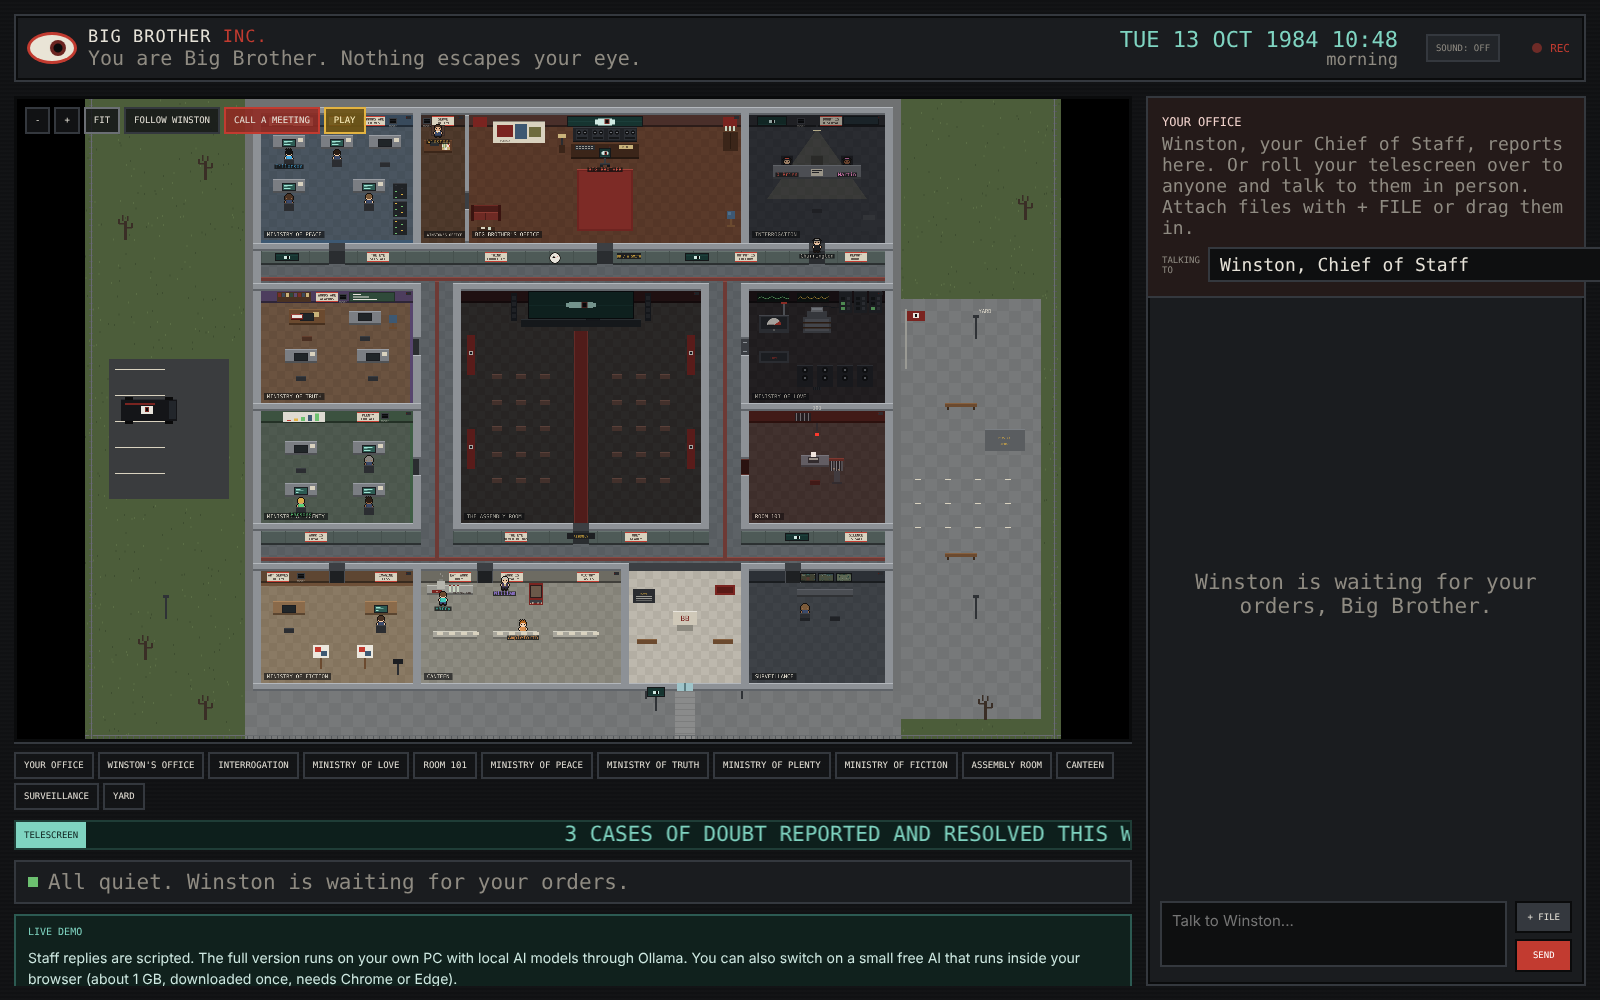
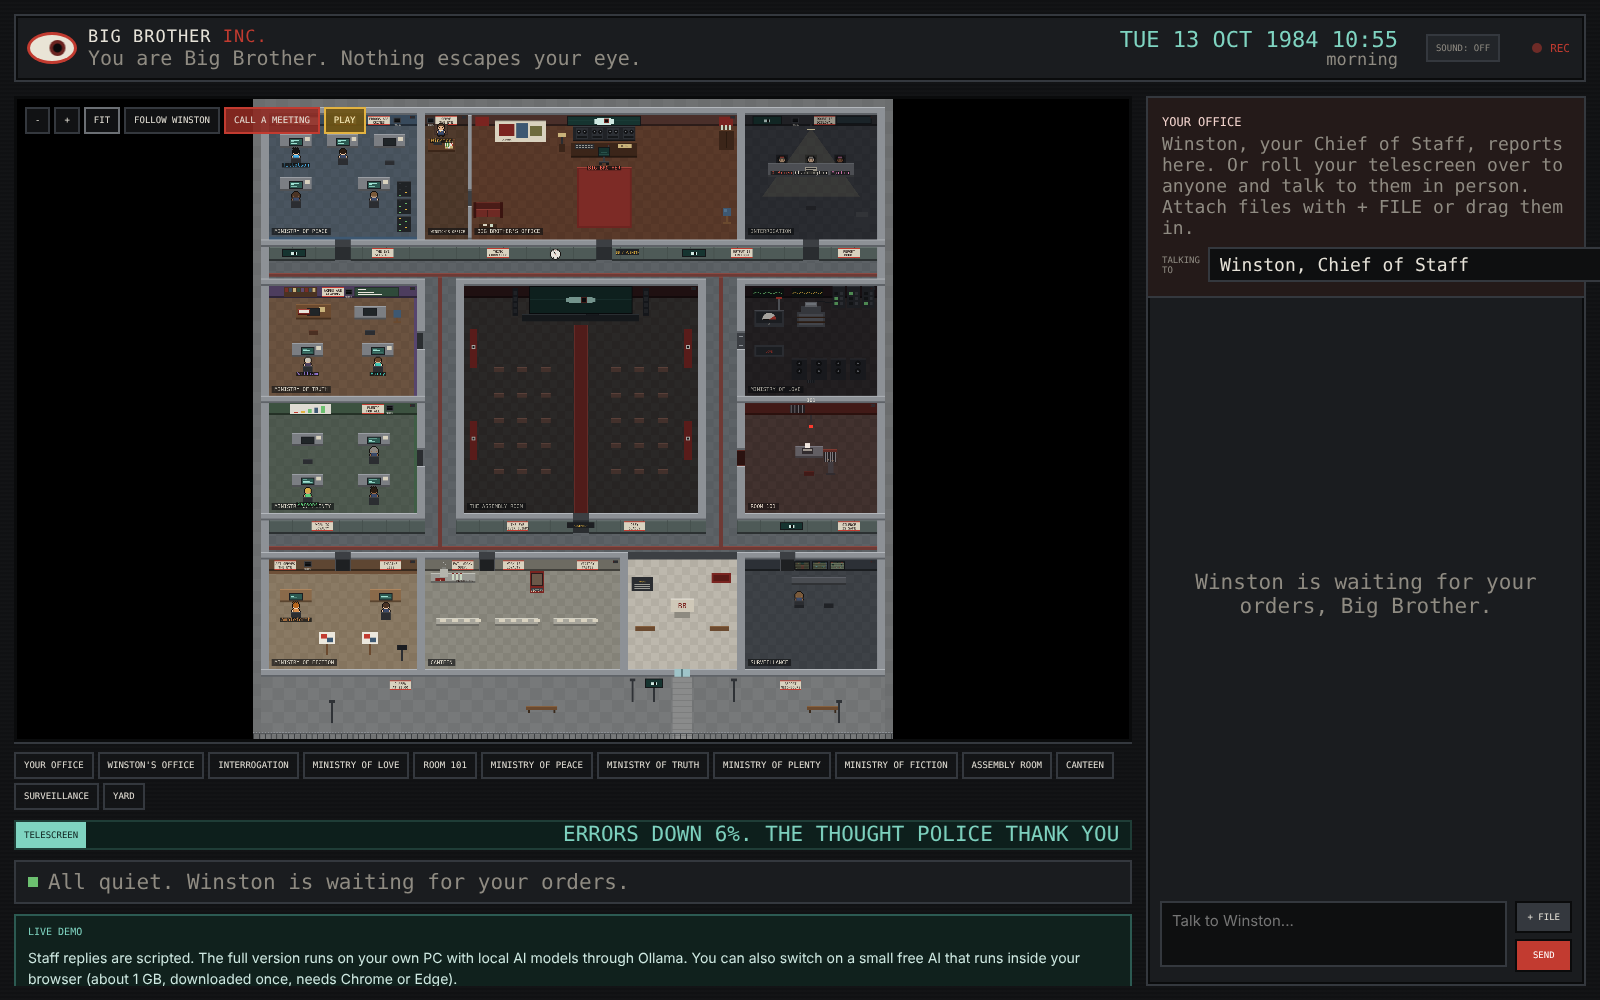
Crop the map to the building and a concrete forecourt
- Removed the grass, car park and side yard
- The yard is now the front forecourt with benches, lamps, notices and a fence

Claude-Session: https://claude.ai/code/session_01DL5cBp9f7f5LEB6skKxDKn

Changed region(s): [[0.0312, 0.093, 0.6875, 0.744], [0.3438, 0.806, 0.7188, 0.837], [0.8438, 0.031, 0.875, 0.062]]

diff --git a/static/index.html b/static/index.html
@@ -261,12 +261,12 @@ async function loadBrowserAI() {
   }
 }
 // =================================================================== world setup
-const W = 976, H = 640, S = 4;
+const LEFT = 160, W = 656, H = 656, S = 4;     // the map shows x from LEFT to LEFT + W: the building and its front yard
 const OFFY = 0;                                // (no extra strip any more: everything fits inside the building)
 const TOP = -OFFY, HT = H + OFFY;                 // world size in tiles-pixels, world -> image scale
 const view = document.getElementById('view');
 const vctx = view.getContext('2d');
-function layer(w = W * S, h = HT * S, shift = true) { const c = document.createElement('canvas'); c.width = w; c.height = h; const g = c.getContext('2d'); g.imageSmoothingEnabled = false; if (shift) g.setTransform(1, 0, 0, 1, 0, OFFY * S); return [c, g]; }
+function layer(w = W * S, h = HT * S, shift = true) { const c = document.createElement('canvas'); c.width = w; c.height = h; const g = c.getContext('2d'); g.imageSmoothingEnabled = false; if (shift) g.setTransform(1, 0, 0, 1, -LEFT * S, OFFY * S); return [c, g]; }
 function blit(g, img) { g.save(); g.setTransform(1, 0, 0, 1, 0, 0); g.drawImage(img, 0, 0); g.restore(); }
 const [world, wctx] = layer();
 let G = wctx;
@@ -301,7 +301,7 @@ const ROOMS = {
   canteen: { x: 336, y: 472, w: 200, h: 112, door: 400, side: 'B', name: 'CANTEEN',                                    wall: '#6d6b62', floor: ['#8c8a80', '#848278'] },
   lobby:   { x: 544, y: 472, w: 112, h: 112, door: 600, side: 'B', name: 'LOBBY',                                      wall: '#d6d0c2', floor: ['#bdb8ad', '#b3aea3'] },
   surv:    { x: 664, y: 472, w: 136, h: 112, door: 708, side: 'B', name: 'SURVEILLANCE',                               wall: '#2c3036', floor: ['#3e4247', '#3a3e43'] },
-  yard:    { x: 808, y: 200, w: 168, h: 440, door: 600, side: 'y', name: 'YARD' },
+  yard:    { x: 168, y: 592, w: 640, h: 64,  door: 600, side: 'y', name: 'YARD' },
   corridor:{ x: 176, y: 152, w: 624, h: 32,  door: 520, side: 'c', name: 'CORRIDOR' },
 };
 // the corridor ring: walkers follow these lanes
@@ -353,8 +353,8 @@ for (const x of [376, 436, 496]) spot('canteen', 'can-b' + x, x, 276, 'sitback',
 spot('canteen', 'urn', 366, 226, 'back', 'idle'); spot('canteen', 'vend', 459, 232, 'back', 'idle');
 spot('surv', 'watch0', 508, 238, 'sitback', 'watch'); spot('surv', 'watch1', 538, 238, 'sitback', 'watch');
 spot('surv', 'surv-i', 520, 292, 'stand', 'idle');
-// the yard: benches and standing room on the grounds east of the building
-for (const [x, y, p] of [[868, 302, 'sit'], [884, 302, 'sit'], [868, 452, 'sit'], [884, 452, 'sit'], [930, 380, 'stand'], [840, 540, 'stand'], [700, 618, 'stand'], [940, 600, 'stand']])
+// the yard: benches and standing room on the forecourt
+for (const [x, y, p] of [[448, 620, 'sit'], [464, 620, 'sit'], [736, 620, 'sit'], [752, 620, 'sit'], [380, 632, 'stand'], [520, 636, 'stand'], [672, 634, 'stand'], [800, 630, 'stand']])
   spot('yard', 'yard' + x + '-' + y, x, y, p, 'idle', true);
 // Room 101
 spot('r101', 'r101', 594, 262, 'type', 'r101');
@@ -452,40 +452,22 @@ const WB = (x, y, w, h) => { px(x, y, w, h, '#8d9196'); px(x, y, w, 1, '#b3b7bc'
 // a horizontal wall from x0 to x1 with gaps [[a, b], ...]
 function wallH(x0, x1, y, gaps = []) { let x = x0; for (const [a, b] of gaps) { if (a > x) WB(x, y, a - x, 8); x = b; } if (x1 > x) WB(x, y, x1 - x, 8); }
 function wallV(x, y0, y1, gaps = []) { let y = y0; for (const [a, b] of gaps) { if (a > y) WB(x, y, 8, a - y); y = b; } if (y1 > y) WB(x, y, 8, y1 - y); }
-function deadTree(tx, ty) {
-  px(tx - 1, ty - 18, 3, 19, '#3a2e26');
-  px(tx - 6, ty - 16, 6, 1.5, '#3a2e26'); px(tx - 7, ty - 20, 2, 5, '#3a2e26'); px(tx + 1, ty - 12, 6, 1.5, '#3a2e26'); px(tx + 6, ty - 16, 2, 5, '#3a2e26');
-  px(tx - 3, ty - 24, 1.5, 6, '#3a2e26'); px(tx + 2, ty - 23, 1.5, 5, '#3a2e26');
-}
 function bench(bx, by) { px(bx, by, 32, 4, '#6b4a2f'); px(bx, by, 32, 1, '#86603e'); px(bx + 2, by + 4, 2, 3, '#3a2a1c'); px(bx + 28, by + 4, 2, 3, '#3a2a1c'); }
-const LAMPS = [[560, 600], [656, 600], [890, 240], [890, 520], [80, 520]];
+const LAMPS = [[548, 618], [652, 618], [240, 640], [760, 640]];
+const BENCHES = [[440, 622], [728, 622]];
 
 function drawStatic() {
   G = bgG;
-  // ---------------- the grounds round the building
-  px(0, 0, W, H, '#4c5d3a');
-  const rnd = seeded(11);
-  for (let i = 0; i < 2600; i++) px(rnd() * W, rnd() * H, 1, 2, rnd() > .5 ? '#5b6e45' : '#3e4d30');
-  px(160, 0, 656, 600, '#6f7172');                                         // paving round the walls
-  tiles(160, 592, 656, 48, '#77797a', '#717374', 12);                       // the front yard
-  tiles(816, 200, 140, 420, '#77797a', '#717374', 12);                      // exercise yard to the east
-  px(590, 592, 20, 48, '#8a8b8b'); for (let y = 592; y < 640; y += 6) px(590, y, 20, 1, '#7c7d7d');   // the path from the front door
-  for (let x = 0; x < W; x += 6) px(x, 636, 1, 4, '#54575a'); px(0, 636, W, 1, '#6a6d70');            // perimeter fence
-  for (let y = 0; y < H; y += 6) { px(4, y, 4, 1, '#54575a'); px(W - 8, y, 4, 1, '#54575a'); } px(6, 0, 1, H, '#6a6d70'); px(W - 7, 0, 1, H, '#6a6d70');
-  // car park with the Thought Police van
-  px(24, 260, 120, 140, '#3a3c3e'); for (let y = 270; y < 400; y += 26) px(30, y, 50, 1, '#d9d2bf');
-  px(36, 300, 56, 22, '#141518'); px(36, 300, 56, 1, '#2a2c30'); px(84, 302, 7, 18, '#22262b'); px(40, 304, 30, 2, '#7a2420');
-  px(56, 307, 12, 8, '#e8e4dc'); px(60, 308, 4, 5, '#7a2a24'); px(61, 309, 2, 3, '#0b0b0b');               // the eye on the van
-  for (const [x, y] of [[40, 322], [80, 322], [40, 298], [80, 298]]) px(x, y, 8, 3, '#0b0b0b');
-  for (const [tx, ty] of [[40, 140], [120, 80], [60, 560], [940, 120], [900, 620], [120, 620]]) deadTree(tx, ty);
-  bench(860, 304); bench(860, 454);
+  // ---------------- outside: just the concrete forecourt at the front
+  tiles(LEFT, 0, W, H, '#6f7172', '#6b6d6e', 12);
+  tiles(168, 592, 640, 64, '#77797a', '#717374', 12);
+  px(590, 592, 20, 64, '#8a8b8b'); for (let y = 592; y < 656; y += 6) px(590, y, 20, 1, '#7c7d7d');   // the path from the front doors
+  for (let x = LEFT; x < LEFT + W; x += 6) px(x, 650, 1, 6, '#3a3d40'); px(LEFT, 650, W, 1, '#54575a');   // the perimeter fence
+  for (let x = LEFT; x < LEFT + W; x += 3) px(x, 648.5, 1.5, 1, '#8d9196');                           // and its barbed wire
+  for (const [bx, by] of BENCHES) bench(bx, by);
   for (const [lx, ly] of LAMPS) { px(lx, ly - 22, 2, 22, '#2f3236'); px(lx - 2, ly - 24, 6, 3, '#2f3236'); }
-  px(820, 210, 2, 60, '#9a9a94'); px(822, 212, 18, 10, '#7a2420'); px(828, 214, 6, 5, '#e8e4dc'); px(830, 215, 2, 3, '#0b0b0b');   // the flag
-  px(570, 594, 2, 18, '#2f3236');                                           // pole for the yard telescreen
-  // the exercise yard: a platform for the morning Physical Jerks, and lines on the ground
-  px(900, 330, 40, 22, '#5a5d60'); px(900, 330, 40, 1, '#7b7f84'); text('PHYSICAL', 920, 340, 9, '#e3b341', 'center'); text('JERKS', 920, 346, 9, '#e3b341', 'center');
-  for (let i = 0; i < 4; i++) for (let j = 0; j < 3; j++) px(830 + i * 30, 380 + j * 24, 6, 1, '#d9d2bf');
-
+  px(570, 600, 2, 18, '#2f3236');                                           // pole for the yard telescreen
+  poster(300, 596, 'CURFEW', 'AT 23:00'); poster(700, 596, 'REPORT', 'NEIGHBOURS');
   // ---------------- floors
   px(168, 8, 640, 584, '#3c3f43');
   for (const r of Object.values(ROOMS)) if (r.floor) tiles(r.x, r.y, r.w, r.h, r.floor[0], r.floor[1], 8);
@@ -668,7 +650,6 @@ function drawStatic() {
     px(r.x + 3, ly, w, 7, 'rgba(16,17,19,.65)');
     text(r.name, r.x + 6, ly + 5.3, size, '#d9d4c7');
   }
-  text('YARD', 900, 214, 16, '#d9d4c7', 'center');
   // corridor decoration (kept clear of all doors)
   poster(282, 153, 'THE EYE', 'SEES ALL'); poster(400, 153, 'THINK', 'CORRECTLY'); poster(650, 153, 'OUTPUT IS', 'FREEDOM'); poster(760, 153, 'REPORT', 'DOUBT');
   px(532, 154, 24, 6, '#1d1f22'); text('BB / W.SMITH', 544, 158.4, 10, '#e3b341', 'center');   // door plate
@@ -712,12 +693,12 @@ function makeChar(info, npc = false) {
 }
 
 // how to walk from the corridor ring into a room (the first point is just inside the corridor, by the door)
-const HOME = [600, 664];                                    // off the bottom of the map, beyond the front gate
+const HOME = [600, 680];                                    // off the bottom of the map, beyond the front gate
 function routeIn(room, s) {
   const r = ROOMS[room];
   const out = [[600, 468], [600, 530], [600, 598]];        // through the lobby and out of the front doors
   if (room === 'home') return [...out, HOME];
-  if (room === 'yard') return [...out, [600, 616], [s.x, 616], [s.x, s.y]];
+  if (room === 'yard') return [...out, [600, 640], [s.x, 640], [s.x, s.y]];
   if (r.side === 'c') return [[s.x, s.y]];
   if (r.side === 'w') return [[r.door, 156], [r.door, 140], ...WOFF_VIA, ...woffInner(s), [s.x, s.y]];
   if (r.side === 'n') return [[r.door, 156], [r.door, 140], [s.x, s.y]];
@@ -899,7 +880,7 @@ function captureCctv(now) {
   for (let i = 0; i < 3; i++) {
     const r = ROOMS[FEED_ROOMS[(feedShift + i * 3) % FEED_ROOMS.length]];
     cctvG.imageSmoothingEnabled = true;
-    cctvG.drawImage(world, r.x * S, (r.y + OFFY) * S, r.w * S, r.h * S, i * 60, 0, 60, 34);
+    cctvG.drawImage(world, (r.x - LEFT) * S, (r.y + OFFY) * S, r.w * S, r.h * S, i * 60, 0, 60, 34);
   }
   cctvG.fillStyle = 'rgba(40,120,100,.3)'; cctvG.fillRect(0, 0, cctv.width, cctv.height);
   cctvG.fillStyle = 'rgba(0,0,0,.25)'; for (let y = 0; y < 34; y += 2) cctvG.fillRect(0, y, cctv.width, 1);
@@ -940,7 +921,7 @@ function drawDynamic(now) {
     text(lastVerdict.avg.toFixed(1), 687, 23.2, 15, lastVerdict.ok ? '#6cc070' : '#ff6a5a', 'center');
     text(lastVerdict.ok ? 'CLEARED' : 'GUILTY', 687, 25.6, 7, '#e6e2d8', 'center');
   } else telescreen(672, 17, 30, 10, now, false);
-  telescreen(562, 588, 18, 10, now, false);                 // the yard telescreen
+  telescreen(562, 594, 18, 10, now, false);                 // the yard telescreen
   // desk monitors light up when someone works there
   for (const [k, d] of Object.entries(DESKS)) {
     const who = taken[k] && chars[taken[k]]; const on = who && who.pose === 'type' && !who.path.length;
@@ -1085,11 +1066,11 @@ function drawLight() {
   G.fillStyle = 'rgba(5,6,10,.3)'; rect(ROOMS.board); rect(ROOMS.mlove);              // the Ministry of Love wing is always dim
   G.fillStyle = meeting && meeting.phase === 'rally' ? `rgba(120,10,10,${.18 + Math.sin(performance.now() / 200) * .1})` : 'rgba(5,6,10,.28)';
   rect(ROOMS.hall);
-  if (gold) { G.fillStyle = `rgba(255,140,60,${gold * .14})`; G.fillRect(0, 0, W * S, H * S); }
+  if (gold) { G.fillStyle = `rgba(255,140,60,${gold * .14})`; G.fillRect(LEFT * S, 0, W * S, H * S); }
   if (!n) return;
   G.fillStyle = `rgba(12,16,40,${n * .32})`; G.fillRect(168 * S, 8 * S, 640 * S, 584 * S);
   G.fillStyle = `rgba(8,10,30,${n * .62})`;
-  G.fillRect(0, 0, 168 * S, H * S); G.fillRect(808 * S, 0, (W - 808) * S, H * S); G.fillRect(168 * S, 592 * S, 640 * S, (H - 592) * S); G.fillRect(168 * S, 0, 640 * S, 8 * S);
+  G.fillRect(LEFT * S, 0, 8 * S, H * S); G.fillRect(808 * S, 0, 8 * S, H * S); G.fillRect(168 * S, 592 * S, 640 * S, (H - 592) * S); G.fillRect(168 * S, 0, 640 * S, 8 * S);
   G.globalCompositeOperation = 'lighter';
   for (const [lx, ly] of LAMPS) glow(lx + 1, ly - 22, 34, 'rgba(255,200,120,A)', .35 * n);
   glow(520, 22, 40, 'rgba(127,212,193,A)', .2 * n);
@@ -1105,7 +1086,7 @@ function updateClock() {
 }
 
 // =================================================================== camera: zoom and pan
-const cam = { x: W / 2, y: (TOP + H) / 2, z: 1, tx: W / 2, ty: (TOP + H) / 2, tz: 1, follow: false };
+const cam = { x: LEFT + W / 2, y: (TOP + H) / 2, z: 1, tx: LEFT + W / 2, ty: (TOP + H) / 2, tz: 1, follow: false };
 function fitZ() { return Math.min(view.width / W, view.height / H); }
 function resize() {
   const dpr = window.devicePixelRatio || 1;
@@ -1119,7 +1100,7 @@ function resize() {
 function clampCam() {
   cam.tz = Math.max(fitZ(), Math.min(fitZ() * 5, cam.tz));
   const vw = view.width / cam.tz, vh = view.height / cam.tz;
-  cam.tx = vw >= W ? W / 2 : Math.max(vw / 2, Math.min(W - vw / 2, cam.tx));
+  cam.tx = vw >= W ? LEFT + W / 2 : Math.max(LEFT + vw / 2, Math.min(LEFT + W - vw / 2, cam.tx));
   cam.ty = vh >= HT ? TOP + HT / 2 : Math.max(TOP + vh / 2, Math.min(H - vh / 2, cam.ty));
 }
 function focusRoom(key) {
@@ -1385,11 +1366,11 @@ function frame(now) {
   if (cam.follow && chars.head && !chars.head.hidden) { cam.tx = chars.head.x; cam.ty = chars.head.y - 10; clampCam(); }
   cam.x += (cam.tx - cam.x) * Math.min(1, dt * 8); cam.y += (cam.ty - cam.y) * Math.min(1, dt * 8); cam.z += (cam.tz - cam.z) * Math.min(1, dt * 8);
   const vw = view.width / cam.z, vh = view.height / cam.z;
-  const vx0 = vw >= W ? (W - vw) / 2 : Math.max(0, Math.min(W - vw, cam.x - vw / 2)), vy0 = vh >= HT ? TOP + (HT - vh) / 2 : Math.max(TOP, Math.min(H - vh, cam.y - vh / 2));
+  const vx0 = vw >= W ? LEFT + (W - vw) / 2 : Math.max(LEFT, Math.min(LEFT + W - vw, cam.x - vw / 2)), vy0 = vh >= HT ? TOP + (HT - vh) / 2 : Math.max(TOP, Math.min(H - vh, cam.y - vh / 2));
   vctx.imageSmoothingEnabled = cam.z < S;
   vctx.fillStyle = '#000'; vctx.fillRect(0, 0, view.width, view.height);
-  const ix = Math.max(0, vx0), iy = Math.max(TOP, vy0), iw = Math.min(W, vx0 + vw) - ix, ih = Math.min(H, vy0 + vh) - iy;   // the part of the world in view
-  vctx.drawImage(world, ix * S, (iy + OFFY) * S, iw * S, ih * S, (ix - vx0) * cam.z, (iy - vy0) * cam.z, iw * cam.z, ih * cam.z);
+  const ix = Math.max(LEFT, vx0), iy = Math.max(TOP, vy0), iw = Math.min(LEFT + W, vx0 + vw) - ix, ih = Math.min(H, vy0 + vh) - iy;   // the part of the world in view
+  vctx.drawImage(world, (ix - LEFT) * S, (iy + OFFY) * S, iw * S, ih * S, (ix - vx0) * cam.z, (iy - vy0) * cam.z, iw * cam.z, ih * cam.z);
   requestAnimationFrame(frame);
 }
 
